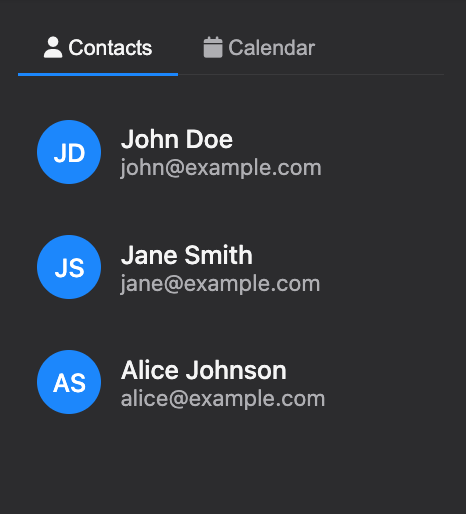
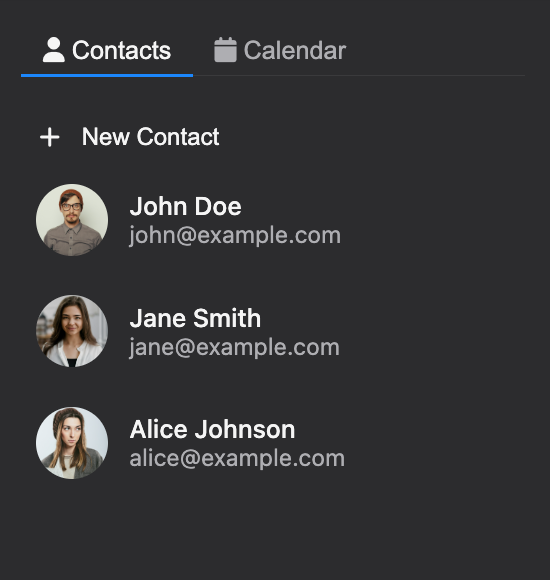
Updated and added new design images

diff --git a/README.md b/README.md
@@ -11,7 +11,7 @@ We have designed a beautiful modern interface. Here are some screenshots to give
 
 _Please note that some features may not be shown in the screenshots of the current version._
 
-## Beautifully laid out main Mailbox
+## Beautifully designed main Mailbox screen
 
 <img src="https://github.com/intervations/mailenable-modern-skin/blob/main/Example%20ScreenShots/01.%20Mailbox%20view.png" style="width: 45%;" alt="Mailbox view"><img src="https://github.com/intervations/mailenable-modern-skin/blob/main/Example%20ScreenShots/01.%20Mailbox%20view%20(Dark-mode).png" style="width: 45%;" alt="Mailbox view (dark-mode)">
 
@@ -22,6 +22,10 @@ _Please note that some features may not be shown in the screenshots of the curre
 ## Re-imagined Contacts
 
 <img src="https://github.com/intervations/mailenable-modern-skin/blob/main/Example%20ScreenShots/03.%20Contacts.png" style="width: 25%;" alt="Contacts list"><img src="https://github.com/intervations/mailenable-modern-skin/blob/main/Example%20ScreenShots/03.%20Contacts%20(Dark-mode).png" style="width: 25%;" alt="Contacts list (dark-mode)">
+
+## Adding/Editing a Contact couldn't be more pleasant
+
+<img src="https://github.com/intervations/mailenable-modern-skin/blob/main/Example%20ScreenShots/03.%20Contacts%20-%20New%20Contact.png" style="width: 25%;" alt="New Contact"><img src="https://github.com/intervations/mailenable-modern-skin/blob/main/Example%20ScreenShots/03.%20Contacts%20-%20New%20Contact%20(Dark-mode).png" style="width: 25%;" alt="New Contact (dark-mode)">
 
 ## Elegant, beautiful Calendar
 
